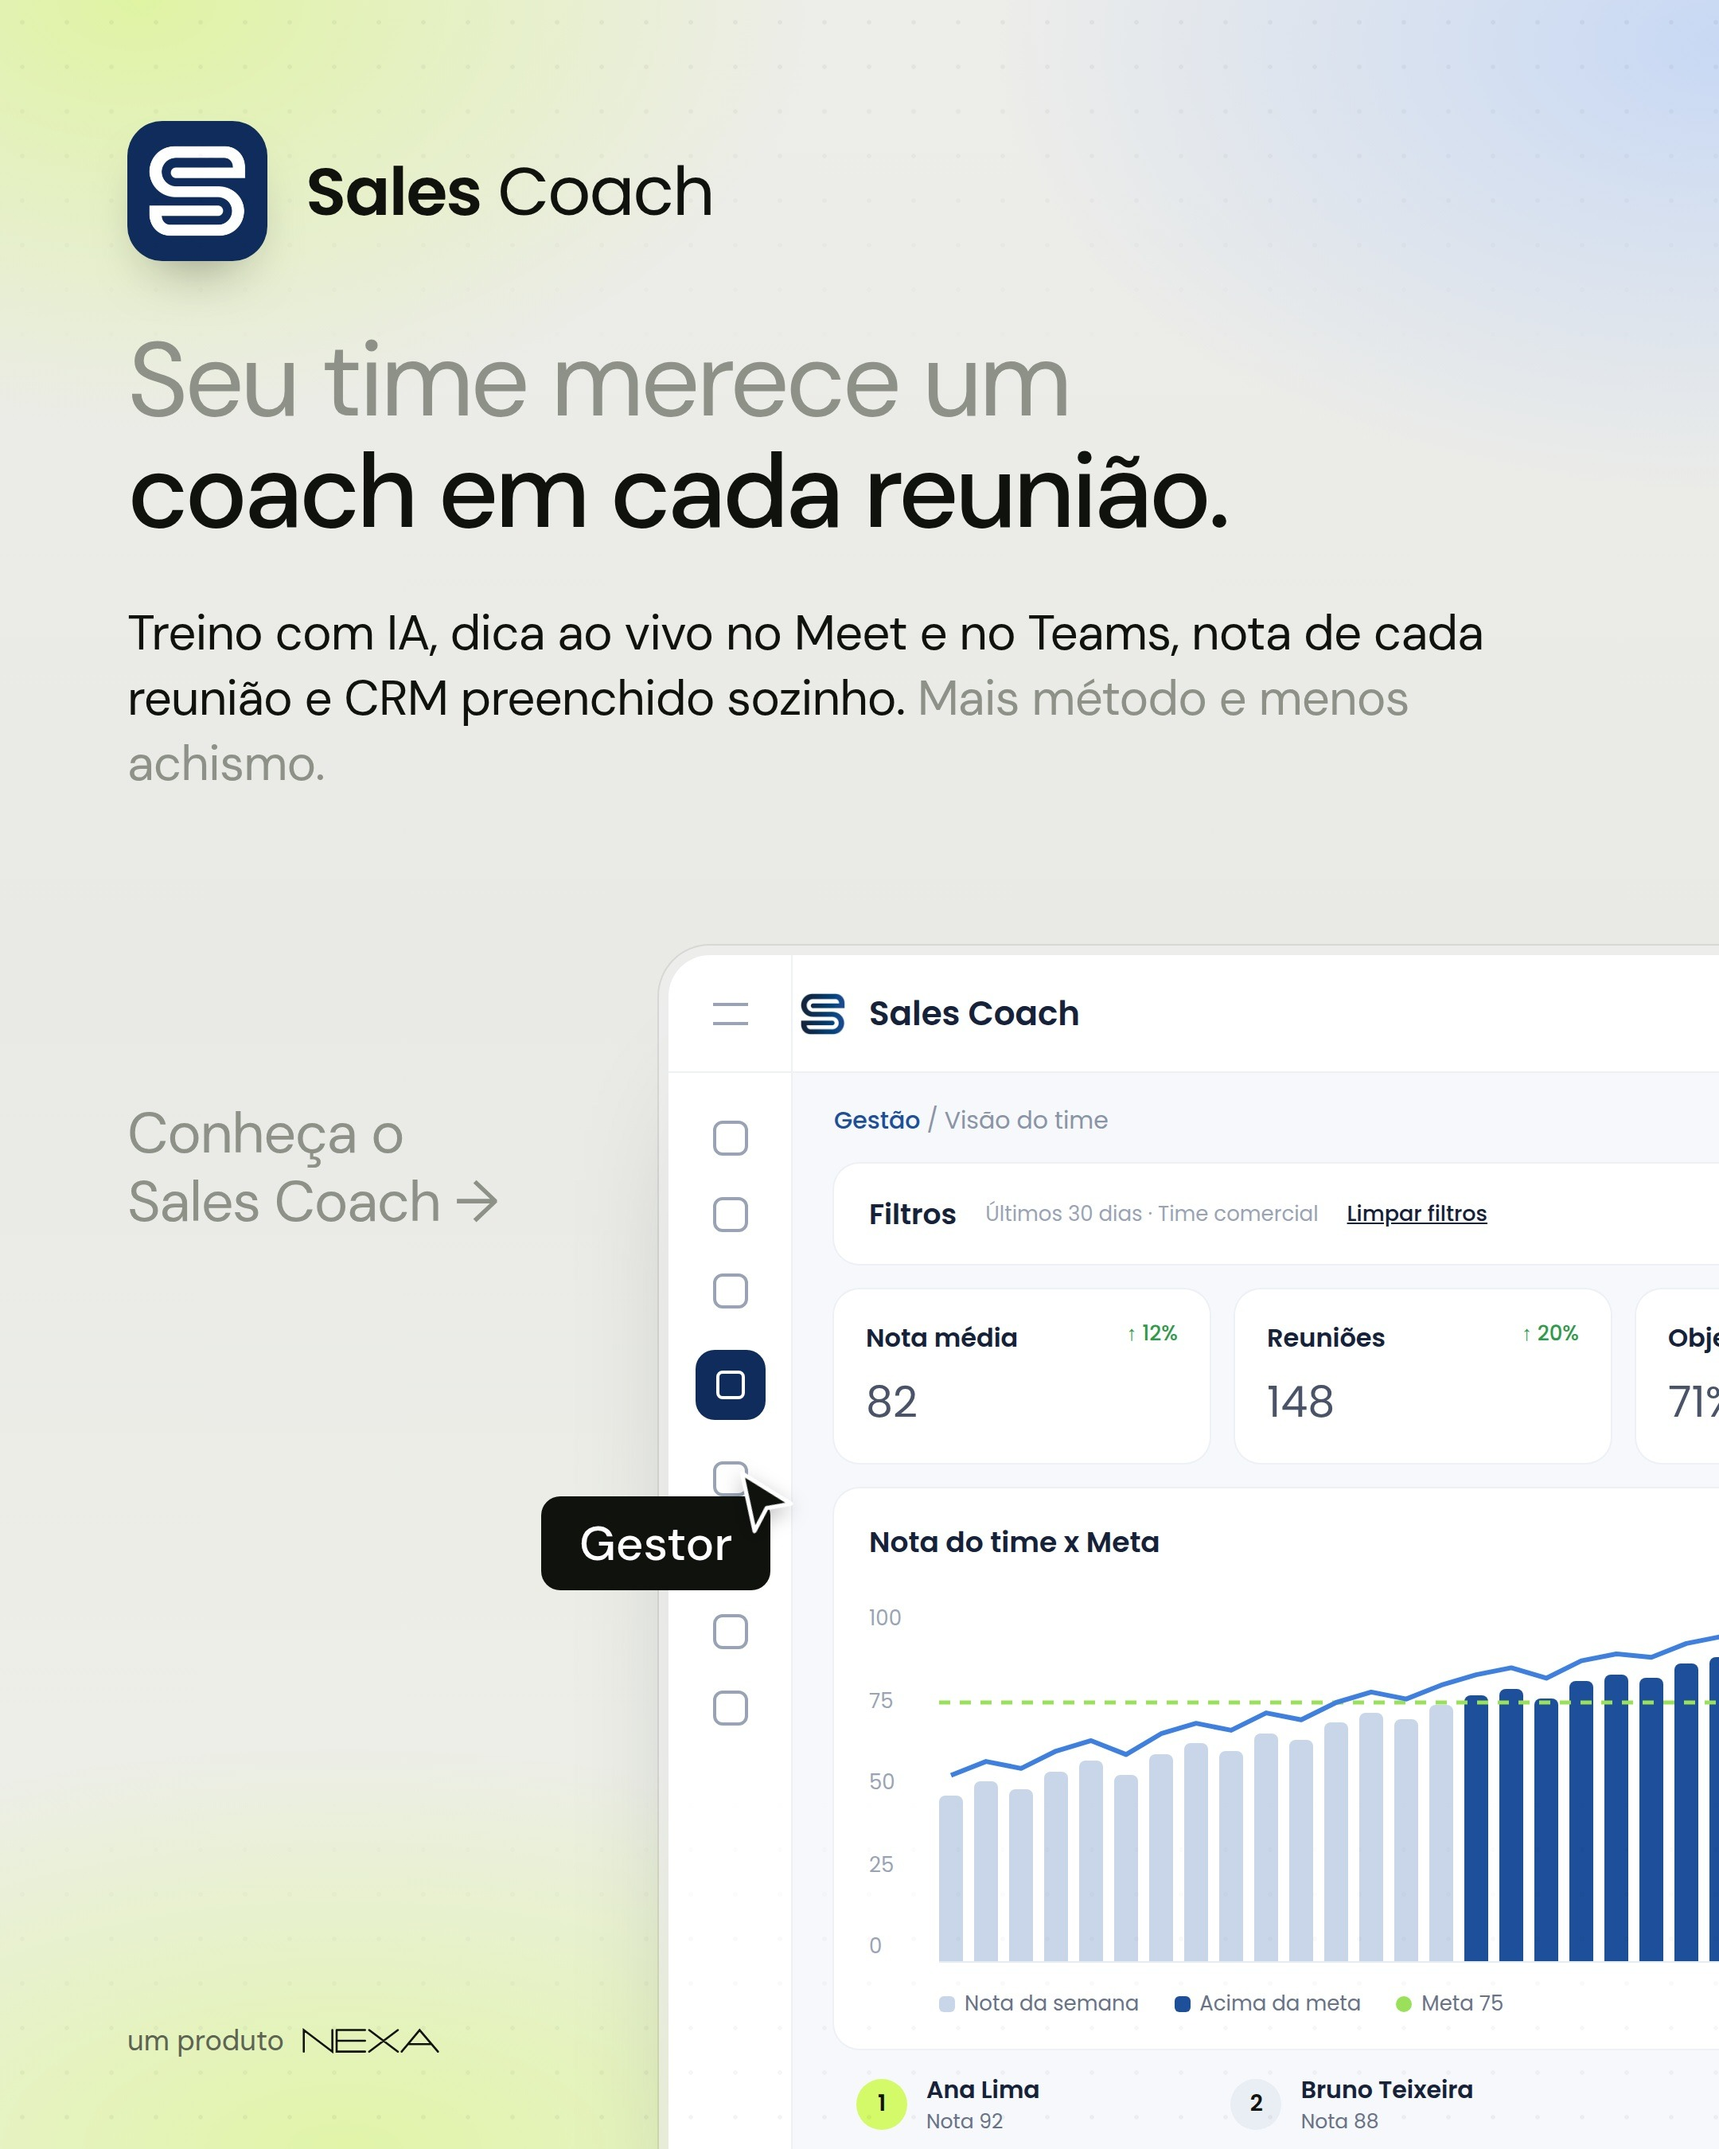
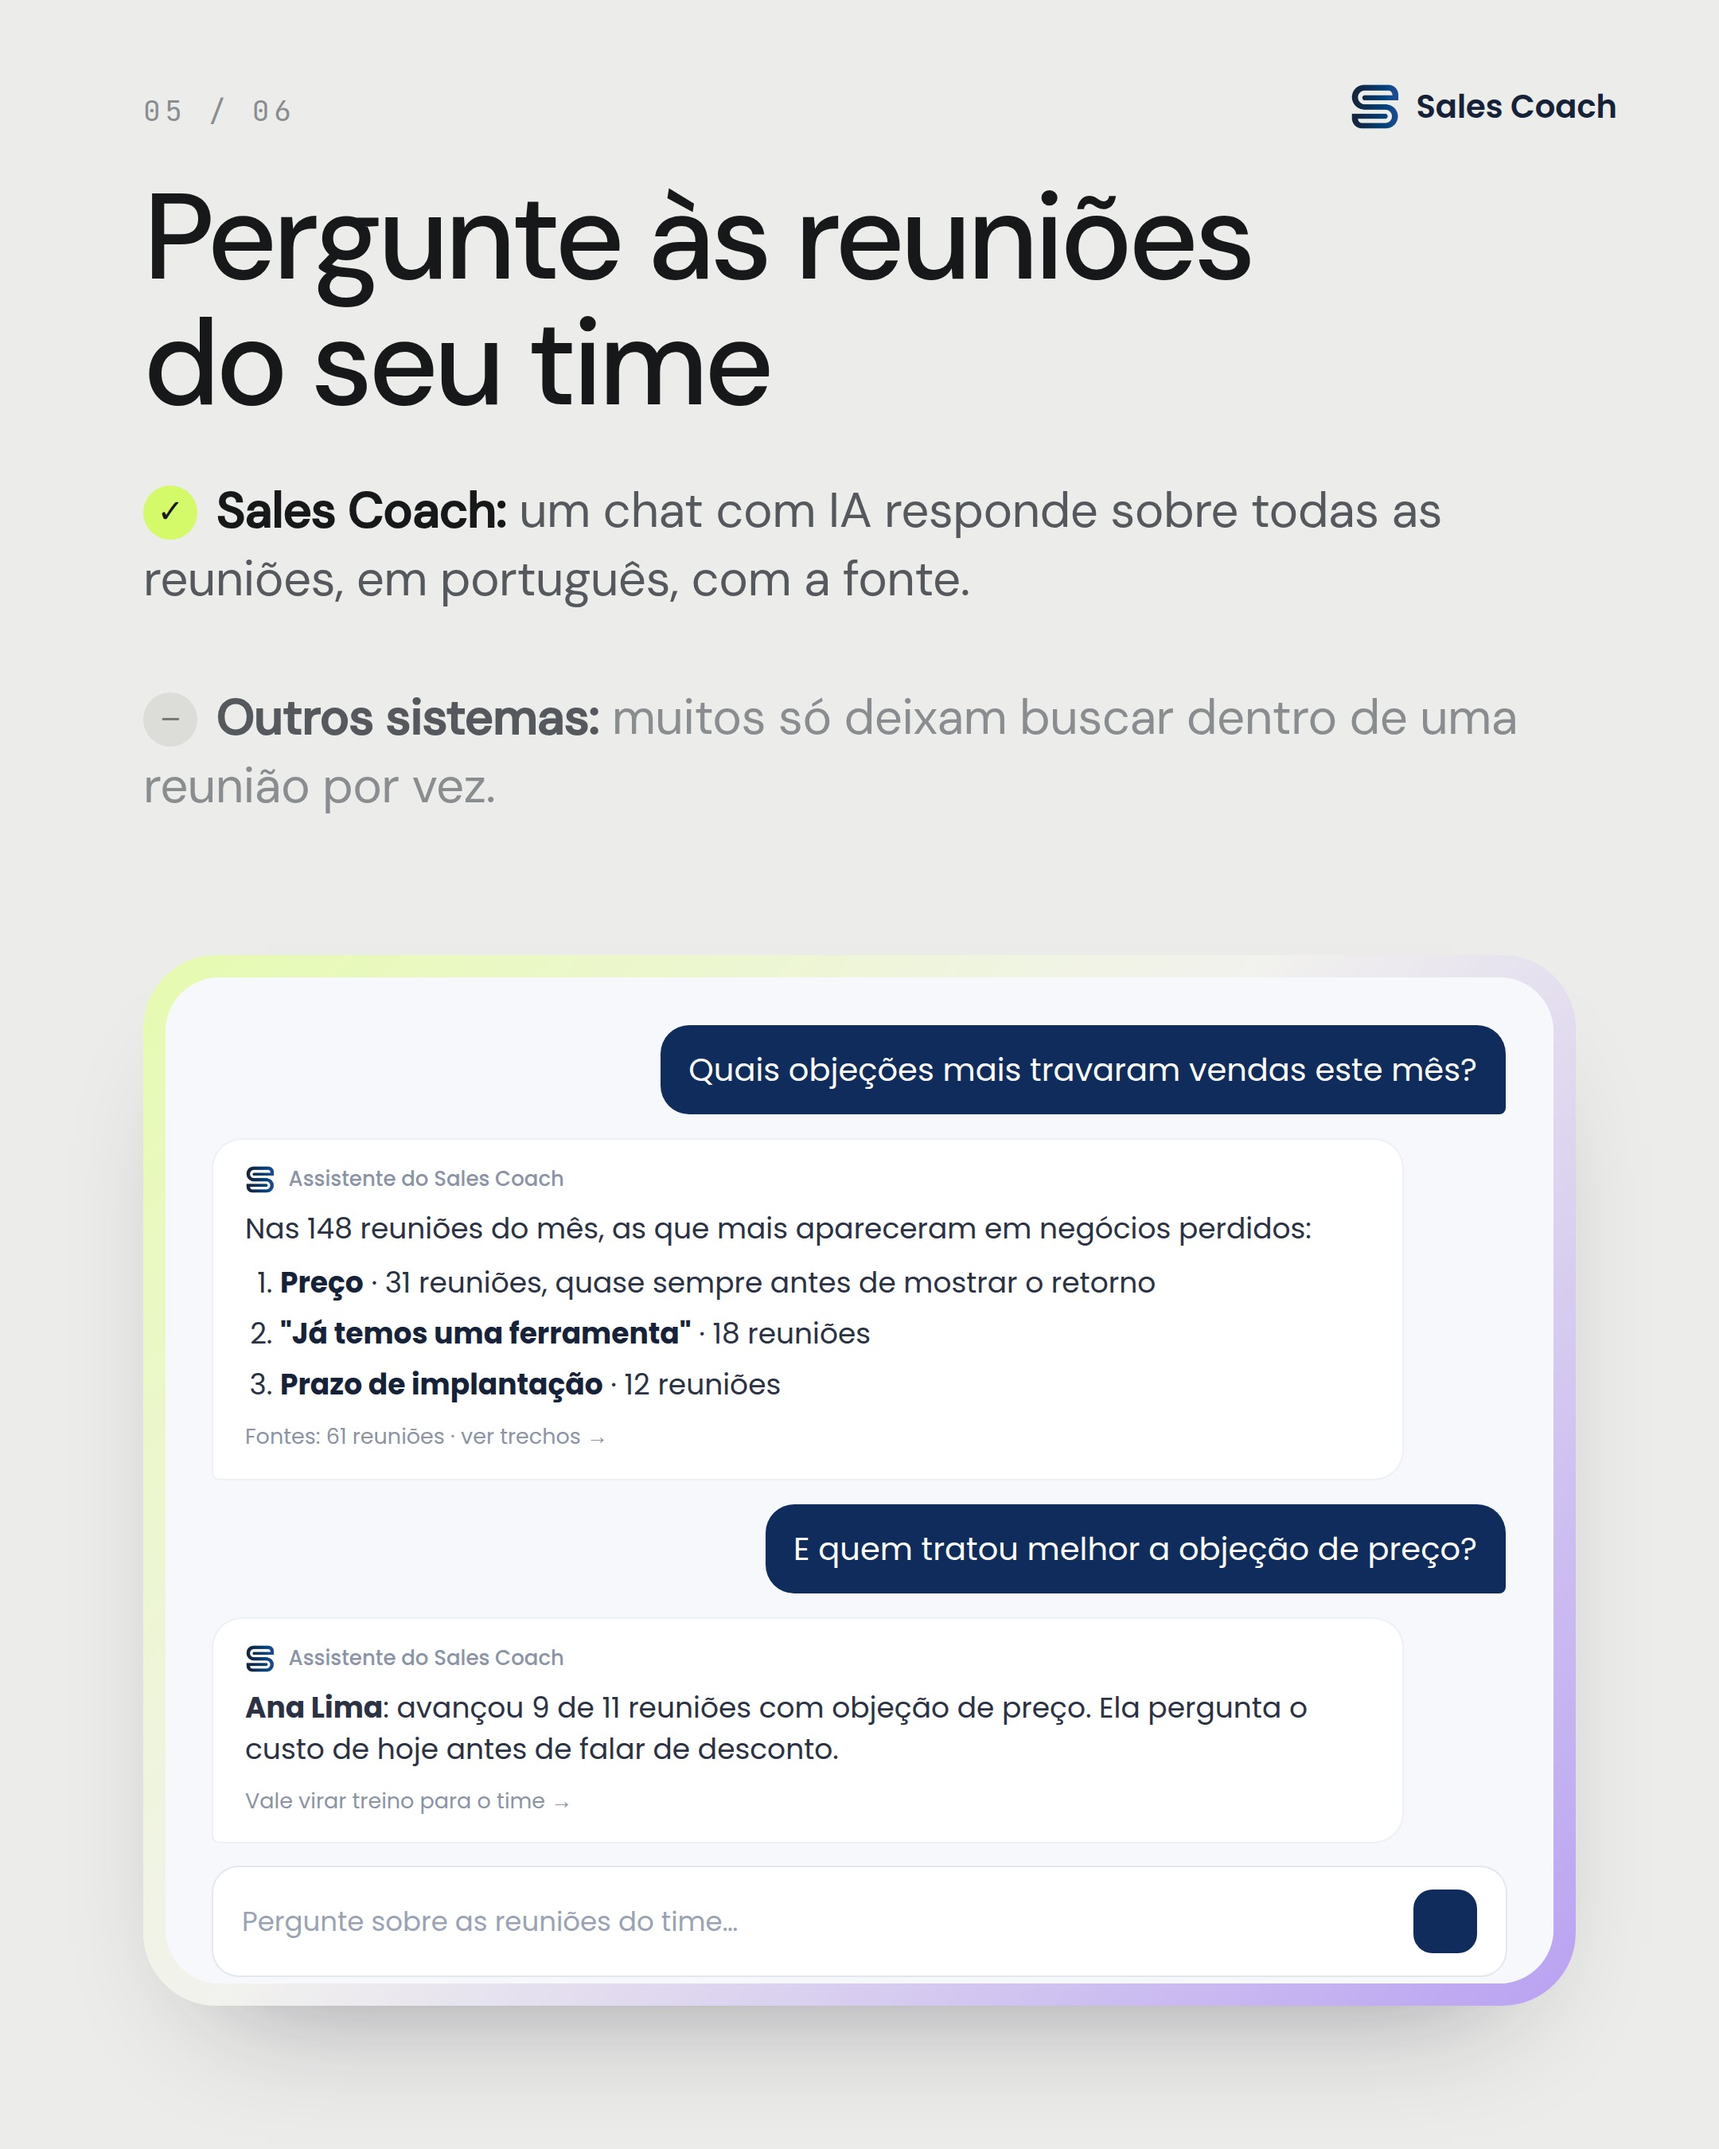
Carrossel comparativo: R$ 89/usuário, CRM preenchido e chat com IA
Claude-Session: https://claude.ai/code/session_01D69rV6pxRKedanUm525i1S

diff --git a/social/carrossel-sc-comparativo/carrossel.html b/social/carrossel-sc-comparativo/carrossel.html
@@ -121,6 +121,28 @@ body { background: #333; font-family: 'DM Sans', sans-serif; color: var(--tinta)
 .precos .a ul { margin-top: 24px; list-style: none; display: flex; flex-direction: column; gap: 12px; font-size: 18px; color: #4a5368; }
 .precos .a li::before { content: "✓"; color: var(--verde); font-weight: 700; margin-right: 10px; }
 .precos .b .win { margin: 0; }
+
+/* CRM */
+.crm { position: absolute; inset: 0; background: #f6f8fb; padding: 28px; font-family: 'Poppins'; display: grid; grid-template-columns: 1fr 1fr; gap: 18px; }
+.crm .col { background: #fff; border-radius: 18px; box-shadow: 0 0 0 1px #edf0f5; padding: 20px 22px; }
+.crm .t { font-size: 15px; font-weight: 600; color: #16213a; display: flex; align-items: center; gap: 8px; }
+.crm .t small { margin-left: auto; font-size: 12px; font-weight: 500; color: var(--verde); background: #e7f5ea; padding: 4px 10px; border-radius: 999px; }
+.campo { margin-top: 14px; }
+.campo small { display: block; font-size: 12.5px; color: #8b93a7; }
+.campo b { display: block; font-size: 16px; font-weight: 500; color: #16213a; margin-top: 3px; padding: 8px 12px; border-radius: 10px; background: #f2f7ec; box-shadow: inset 0 0 0 1px #d8ecc8; }
+.crm .logos { grid-column: 1 / -1; display: flex; gap: 12px; align-items: center; }
+.crm .logos span { flex: 1; text-align: center; padding: 14px 0; border-radius: 14px; background: #fff; box-shadow: 0 0 0 1px #edf0f5; font-size: 17px; font-weight: 600; color: #16213a; }
+.crm .logos span::before { content: "✓ "; color: var(--verde); }
+.crm .nota { font-size: 17px; line-height: 1.5; color: #4a5368; margin-top: 12px; }
+/* Chat */
+.chat { position: absolute; inset: 0; background: #f6f8fb; padding: 30px; font-family: 'Poppins'; display: flex; flex-direction: column; gap: 16px; }
+.chat .eu { align-self: flex-end; max-width: 78%; background: var(--navy); color: #fff; border-radius: 18px 18px 4px 18px; padding: 14px 18px; font-size: 20px; line-height: 1.4; }
+.chat .ia { max-width: 92%; background: #fff; box-shadow: 0 0 0 1px #edf0f5; border-radius: 18px 18px 18px 4px; padding: 16px 20px; font-size: 18px; line-height: 1.45; color: #2b3245; }
+.chat .ia small { display: flex; align-items: center; gap: 8px; font-size: 13px; color: #8b93a7; font-weight: 500; margin-bottom: 8px; } .chat .ia small img { height: 18px; }
+.chat .ia ol { margin: 8px 0 0 22px; } .chat .ia li { margin-top: 6px; } .chat .ia li b { color: #16213a; }
+.chat .ia .fonte { margin-top: 10px; font-size: 13.5px; color: #8b93a7; }
+.chat .campo-chat { margin-top: auto; display: flex; align-items: center; gap: 12px; padding: 14px 18px; border-radius: 16px; background: #fff; box-shadow: 0 0 0 1px #e3e8f0; font-size: 17px; color: #9aa3b5; }
+.chat .campo-chat i { margin-left: auto; width: 40px; height: 40px; border-radius: 12px; background: var(--navy); }
 </style>
 </head>
 <body>
@@ -186,7 +208,7 @@ body { background: #333; font-family: 'DM Sans', sans-serif; color: var(--tinta)
 
 <!-- 2 · Sem robô -->
 <section class="s comp">
-  <div class="num">01 / 04</div>
+  <div class="num">01 / 06</div>
   <div class="marca"><img src="img/mark.png" alt="">Sales Coach</div>
   <h2>Sem robô na<br>sua reunião</h2>
   <p class="lin sc"><i>✓</i><b>Sales Coach:</b> grava pela extensão do Chrome. Ninguém a mais entra na chamada.</p>
@@ -204,7 +226,7 @@ body { background: #333; font-family: 'DM Sans', sans-serif; color: var(--tinta)
 
 <!-- 3 · Ao vivo -->
 <section class="s comp">
-  <div class="num">02 / 04</div>
+  <div class="num">02 / 06</div>
   <div class="marca"><img src="img/mark.png" alt="">Sales Coach</div>
   <h2>A dica chega<br>durante a reunião</h2>
   <p class="lin sc"><i>✓</i><b>Sales Coach:</b> quando a objeção aparece, o coach mostra o que perguntar na hora.</p>
@@ -222,7 +244,7 @@ body { background: #333; font-family: 'DM Sans', sans-serif; color: var(--tinta)
 
 <!-- 4 · Treino -->
 <section class="s comp">
-  <div class="num">03 / 04</div>
+  <div class="num">03 / 06</div>
   <div class="marca"><img src="img/mark.png" alt="">Sales Coach</div>
   <h2>Treino antes da<br>reunião de verdade</h2>
   <p class="lin sc"><i>✓</i><b>Sales Coach:</b> o vendedor treina por voz com um cliente simulado e recebe nota.</p>
@@ -238,20 +260,71 @@ body { background: #333; font-family: 'DM Sans', sans-serif; color: var(--tinta)
   </div></div>
 </section>
 
-<!-- 5 · Preço -->
+<!-- 5 · CRM -->
 <section class="s comp">
-  <div class="num">04 / 04</div>
+  <div class="num">04 / 06</div>
+  <div class="marca"><img src="img/mark.png" alt="">Sales Coach</div>
+  <h2>O CRM se preenche<br>sozinho</h2>
+  <p class="lin sc"><i>✓</i><b>Sales Coach:</b> etapa, decisor, dor e próximo passo vão para o CRM, com a tarefa e a data.</p>
+  <p class="lin ou"><i>–</i><b>Outros sistemas:</b> muitos param no resumo, e alguém ainda copia tudo para o CRM.</p>
+  <div class="moldura"><div class="tela">
+    <div class="crm">
+      <div class="col"><div class="t">Da reunião</div>
+        <div class="nota">"O orçamento já foi aprovado pela diretoria. Quem decide comigo é o Ricardo, nosso sócio. Precisamos resolver até o fim do mês."</div>
+        <div class="nota" style="color:#8b93a7">Grupo Alfa · Demo · 47 min</div>
+        <div class="campo" style="margin-top:22px"><small>Tarefa criada no CRM</small><b style="background:#eef3fb;box-shadow:inset 0 0 0 1px #d3def0">Enviar proposta ao Ricardo · 24/10</b></div>
+        <div class="campo"><small>Nota anexada</small><b style="background:#eef3fb;box-shadow:inset 0 0 0 1px #d3def0">Resumo + nota 86 (BANT)</b></div>
+      </div>
+      <div class="col"><div class="t">No CRM <small>atualizado</small></div>
+        <div class="campo"><small>Etapa</small><b>Proposta</b></div>
+        <div class="campo"><small>Decisor</small><b>Ricardo (sócio)</b></div>
+        <div class="campo"><small>Orçamento</small><b>Aprovado</b></div>
+        <div class="campo"><small>Próximo passo</small><b>Enviar proposta · 24/10</b></div>
+      </div>
+      <div class="logos"><span>HubSpot</span><span>RD Station</span><span>Pipedrive</span><span>Kommo</span></div>
+    </div>
+  </div></div>
+</section>
+
+<!-- 6 · Chat com IA -->
+<section class="s comp">
+  <div class="num">05 / 06</div>
+  <div class="marca"><img src="img/mark.png" alt="">Sales Coach</div>
+  <h2>Pergunte às reuniões<br>do seu time</h2>
+  <p class="lin sc"><i>✓</i><b>Sales Coach:</b> um chat com IA responde sobre todas as reuniões, em português, com a fonte.</p>
+  <p class="lin ou"><i>–</i><b>Outros sistemas:</b> muitos só deixam buscar dentro de uma reunião por vez.</p>
+  <div class="moldura"><div class="tela">
+    <div class="chat">
+      <div class="eu">Quais objeções mais travaram vendas este mês?</div>
+      <div class="ia"><small><img src="img/mark.png" alt="">Assistente do Sales Coach</small>
+        Nas 148 reuniões do mês, as que mais apareceram em negócios perdidos:
+        <ol><li><b>Preço</b> · 31 reuniões, quase sempre antes de mostrar o retorno</li><li><b>"Já temos uma ferramenta"</b> · 18 reuniões</li><li><b>Prazo de implantação</b> · 12 reuniões</li></ol>
+        <div class="fonte">Fontes: 61 reuniões · ver trechos →</div>
+      </div>
+      <div class="eu">E quem tratou melhor a objeção de preço?</div>
+      <div class="ia"><small><img src="img/mark.png" alt="">Assistente do Sales Coach</small>
+        <b>Ana Lima</b>: avançou 9 de 11 reuniões com objeção de preço. Ela pergunta o custo de hoje antes de falar de desconto.
+        <div class="fonte">Vale virar treino para o time →</div>
+      </div>
+      <div class="campo-chat">Pergunte sobre as reuniões do time…<i></i></div>
+    </div>
+  </div></div>
+</section>
+
+<!-- 7 · Preço -->
+<section class="s comp">
+  <div class="num">06 / 06</div>
   <div class="marca"><img src="img/mark.png" alt="">Sales Coach</div>
   <h2>Preço aberto,<br>por quem usa</h2>
-  <p class="lin sc"><i>✓</i><b>Sales Coach:</b> a partir de R$ 19,90 por usuário/mês, publicado no site. Você paga por quem usa.</p>
+  <p class="lin sc"><i>✓</i><b>Sales Coach:</b> a partir de R$ 89 por usuário/mês. Você paga só por quem usa.</p>
   <p class="lin ou"><i>–</i><b>Outros sistemas:</b> muitos só informam o preço sob consulta, depois de uma reunião comercial.</p>
   <div class="moldura"><div class="tela">
     <div class="precos">
       <div class="a"><div class="h"><img src="img/mark.png" alt="">Sales Coach</div>
-        <div class="de">Essencial · 1 a 10 usuários</div>
-        <div class="val"><small>R$</small>19,90</div>
+        <div class="de">A partir de</div>
+        <div class="val"><small>R$</small>89</div>
         <div class="per">por usuário/mês</div>
-        <ul><li>Coach ao vivo na reunião</li><li>Treino com cliente simulado</li><li>BANT, MEDDIC e SPIN prontos</li><li>Extensão para Meet e Teams</li><li>50 reuniões por usuário/mês</li></ul>
+        <ul><li>Coach ao vivo na reunião</li><li>Treino com cliente simulado</li><li>BANT, MEDDIC e SPIN prontos</li><li>Chat com IA sobre as reuniões</li><li>CRM preenchido sozinho</li></ul>
         <div class="per" style="margin-top:22px">Você paga por quem usa.<br>Nada de licença parada.</div>
       </div>
       <div class="b"><div class="win">
@@ -271,7 +344,7 @@ body { background: #333; font-family: 'DM Sans', sans-serif; color: var(--tinta)
   </div></div>
 </section>
 
-<!-- 6 · Post do produto (story-anuncio/sales-coach-feed.html em 2x) -->
+<!-- 8 · Post do produto (story-anuncio/sales-coach-feed.html em 2x) -->
 <section class="s"><img src="img/post-sales-coach.jpg" alt="" style="width:100%;height:100%;display:block"></section>
 
 <script>

diff --git a/social/carrossel-sc-comparativo/README.md b/social/carrossel-sc-comparativo/README.md
@@ -1,4 +1,4 @@
-# Carrossel Sales Coach x outros sistemas (4:5, 6 telas)
+# Carrossel Sales Coach x outros sistemas (4:5, 8 telas)
 
 Na linha da referência "Clínica Experts x outros sistemas": capa com a tela do Sales Coach ao lado de
 uma tela genérica e antiga, quatro cards de comparação e o post do produto no fim.
@@ -12,7 +12,9 @@ uma tela genérica e antiga, quatro cards de comparação e o post do produto no
 | 2 | Sem robô | grava pela extensão do Chrome | muitos põem um robô de anotações na chamada |
 | 3 | Ao vivo | dica na hora da objeção | em geral, análise depois da chamada |
 | 4 | Treino | treino por voz com cliente simulado | focam em gravar e resumir |
-| 5 | Preço | a partir de R$ 19,90 por usuário/mês | muitos só sob consulta |
-| 6 | Post do produto | `img/post-sales-coach.jpg` (de `../story-anuncio/sales-coach-feed.html` em 2x) | |
+| 5 | CRM | etapa, decisor, próximo passo e tarefa no CRM (HubSpot, RD, Pipedrive, Kommo) | muitos param no resumo |
+| 6 | Chat com IA | perguntas sobre todas as reuniões, com a fonte | muitos só buscam numa reunião por vez |
+| 7 | Preço | a partir de R$ 89 por usuário/mês | muitos só sob consulta |
+| 8 | Post do produto | `img/post-sales-coach.jpg` (de `../story-anuncio/sales-coach-feed.html` em 2x) | |
 
 Gerar: `node render.mjs out`

diff --git a/social/carrossel-sc-comparativo/legenda.md b/social/carrossel-sc-comparativo/legenda.md
@@ -6,7 +6,9 @@ No Sales Coach:
 ✅ Nenhum robô entra na chamada: a gravação é pela extensão do Chrome.
 ✅ A dica chega durante a reunião, na hora da objeção.
 ✅ O vendedor treina por voz com um cliente simulado antes da reunião de verdade.
-✅ Preço aberto, a partir de R$ 19,90 por usuário/mês. Você paga por quem usa.
+✅ O CRM se preenche sozinho: etapa, decisor, próximo passo e tarefa, no HubSpot, RD Station, Pipedrive ou Kommo.
+✅ Um chat com IA responde sobre todas as reuniões do time: "quais objeções mais travaram vendas este mês?"
+✅ Preço aberto, a partir de R$ 89 por usuário/mês. Você paga só por quem usa.
 
 Arraste para ver lado a lado 👉
 
